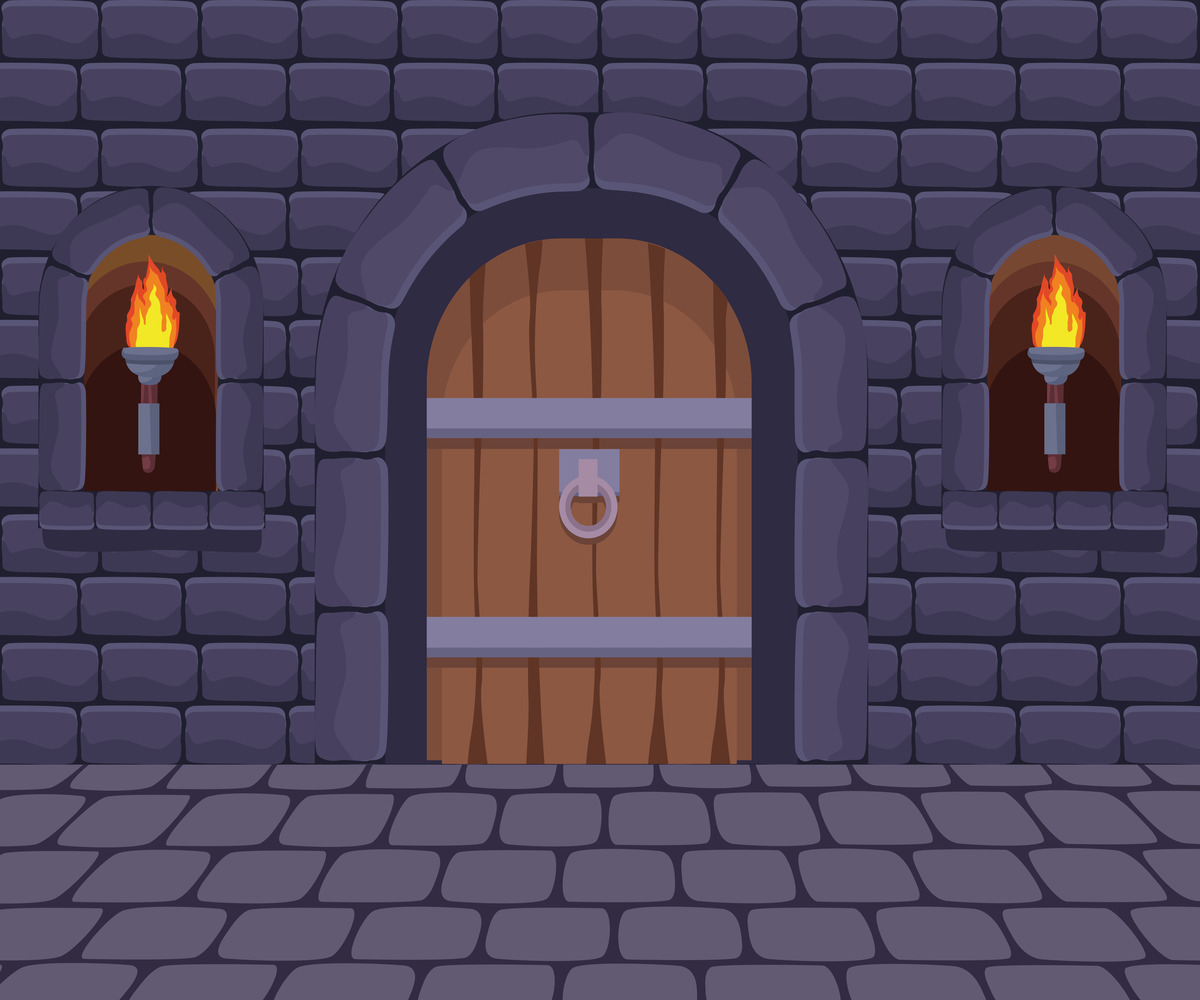
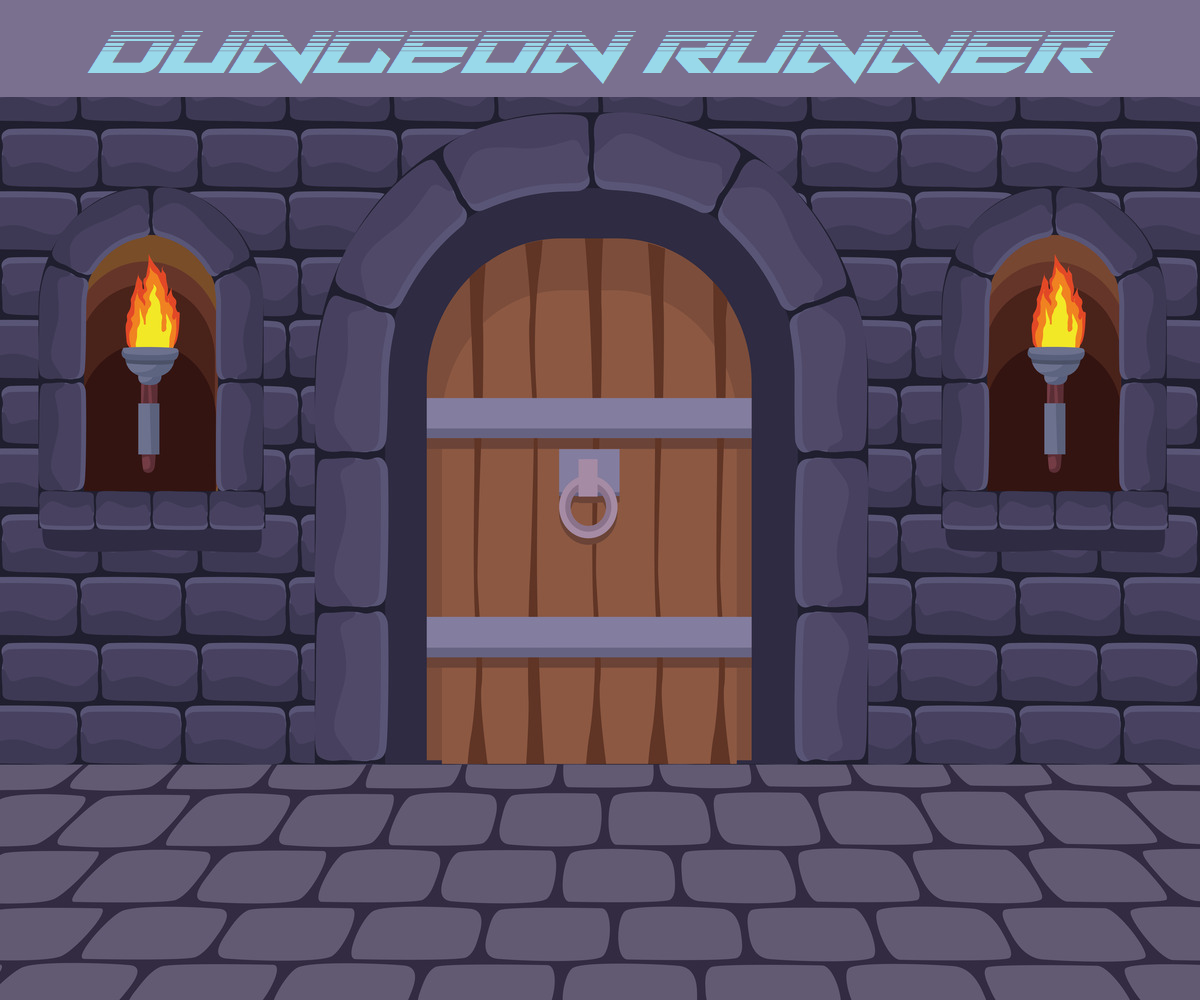
Improved lobbies and different backgrounds

Changed region(s): [[0.0, 0.0, 1.0, 0.124]]

diff --git a/Client.java b/Client.java
@@ -30,8 +30,6 @@ public class Client {
     public final static String MID_ROUND_PANEL = "mid round screen";
     public final static String GAME_OVER_PANEL = "game over screen";
 
-    private String name;
-
     private PrintWriter output;    
     private BufferedReader input;
     private static ServerHandler server;
@@ -81,8 +79,8 @@ public class Client {
 
          //Initialize the screens.
          this.menuScreen = new MenuPanel(Const.MENU_BACKGROUND);
-         this.lobbySelectScreen = new LobbySelectPanel(Const.MENU_BACKGROUND);
-         this.lobbyScreen = new LobbyPanel(Const.MENU_BACKGROUND);
+         this.lobbySelectScreen = new LobbySelectPanel(Const.WALL_BACKGROUND);
+         this.lobbyScreen = new LobbyPanel(Const.WALL_BACKGROUND);
          //this.howToPlayScreen = new HowToPlayScreenPanel(Const.MENU_BACKGROUND);
          //this.lobbyScreen = new LobbyScreenPanel(Const.MENU_BACKGROUND);
          //this.gameScreen = new GameScreenPanel(null);
@@ -92,9 +90,9 @@ public class Client {
          // Add the screens to the window manager.
          cards.add(menuScreen, MENU_PANEL);
          cards.add(lobbySelectScreen, LOBBY_SELECT_PANEL);
+         cards.add(lobbyScreen, LOBBY_PANEL);
          //cards.add(howToPlayScreen, HOW_TO_PLAY_PANEL);
          /*cards.add(createLobbyScreen, CREATE_LOBBY_PANEL);
-         cards.add(lobbyScreen, LOBBY_PANEL);
          cards.add(gameScreen, GAME_PANEL);
          cards.add(gameOverScreen, GAME_OVER_PANEL);
          cards.add(pauseScreen, PAUSE_PANEL);*/
@@ -158,7 +156,16 @@ public class Client {
                         lobbySelectScreen.newLobbyBanner(lobbyName, lobbyCount, Const.LOBBY_BANNER_START_Y + lobbySelectScreen.lobbies().size() * 100);
                     }
                     else if(updateInfo[0].equals(Const.LOBBY_SELECT)){
+                        this.client.lobbySelectScreen.lobbies.clear();
                         Client.ScreenSwapper swapper = new Client.ScreenSwapper(cards, LOBBY_SELECT_PANEL);
+                        swapper.swap();
+                    }
+                    else if(updateInfo[0].equals(Const.NAME)){
+                        Client.ServerWriter writer = new Client.ServerWriter(output);
+                        writer.print(Const.NAME + " " + this.client.lobbySelectScreen.name());
+                    }
+                    else if(updateInfo[0].equals(Const.JOINED)){
+                        Client.ScreenSwapper swapper = new Client.ScreenSwapper(cards, LOBBY_PANEL);
                         swapper.swap();
                     }
                     /* From lobby
@@ -198,6 +205,21 @@ public class Client {
         }
     }
 
+    public static class ServerWriter{
+        private PrintWriter output;
+        /*
+         * Constructs a ServerWriter object with the command to write to the server.
+         * @param output PrintWriter that is connected to the server
+         */
+        public ServerWriter(PrintWriter output) {
+            this.output = output;
+        }
+        public void print(String text){
+            output.println(text);
+            output.flush();
+        }
+    }
+
     public static class ScreenSwapper implements ActionListener {
         private String nextPanel;
         private JPanel cards;
@@ -234,14 +256,14 @@ public class Client {
         public MenuPanel(Image backgroundSprite) {
             super(backgroundSprite);
             Font buttonFont = Const.MENU_BUTTON_FONT;
-            Color fontColor = Color.WHITE;
+            Color fontColor = Const.LARGE_BUTTON_FONT_COLOR;
             // Initialize the buttons.
-            int playY = 260;
+            int playY = 300;
             Text playButtonText = new Text("Play", buttonFont, fontColor, Const.HALF_WIDTH, playY);
             this.playButton = new ServerButton(window, output, playButtonText, Const.LOBBIES_LIST, Const.LARGE_BUTTON_IN_COLOR, Const.LARGE_BUTTON_BORDER_COLOR, 
                                          Const.LARGE_BUTTON_HOVER_COLOR, Const.HALF_WIDTH, playY, Const.RADIUS);
             
-            int howToPlayY = 430;
+            int howToPlayY = 470;
             Text howToPlayButtonText = new Text("How To Play", buttonFont, fontColor, Const.HALF_WIDTH, howToPlayY);
             this.howToPlayButton = new TextButton(window, cards, HOW_TO_PLAY_PANEL, howToPlayButtonText, Const.LARGE_BUTTON_IN_COLOR, Const.LARGE_BUTTON_BORDER_COLOR, 
                                          Const.LARGE_BUTTON_HOVER_COLOR, Const.HALF_WIDTH, howToPlayY, Const.RADIUS);
@@ -275,8 +297,10 @@ public class Client {
     }
 
     public class LobbySelectPanel extends ScreenPanel {
-        private TextButton newlobbyButton;
+        private ServerButton newlobbyButton;
         private TextButton backButton;
+        private TextButton nameField;
+        private String name;
         private ArrayList<LobbyBanner> lobbies;
         //private TextButton creditsButton;
 
@@ -284,13 +308,14 @@ public class Client {
             super(backgroundSprite);
             Font buttonFont = Const.SMALL_BUTTON_FONT;
             Color fontColor = Color.WHITE;
+            this.name = "Player";
             // Initialize the buttons.
             Text newlobbyText = new Text("New Lobby", buttonFont, fontColor, Const.CONTINUE_X, Const.GO_BACK_Y);
-            this.newlobbyButton = new TextButton(window, cards, LOBBY_SELECT_PANEL, newlobbyText, Const.LARGE_BUTTON_IN_COLOR, Const.LARGE_BUTTON_BORDER_COLOR, 
+            this.newlobbyButton = new ServerButton(window, output, newlobbyText, Const.NEW_LOBBY ,Const.LARGE_BUTTON_IN_COLOR, Const.LARGE_BUTTON_BORDER_COLOR, 
                                          Const.LARGE_BUTTON_HOVER_COLOR, Const.CONTINUE_X, Const.GO_BACK_Y, Const.RADIUS);
             
             Text backText = new Text("Go back", buttonFont, fontColor, Const.GO_BACK_X, Const.GO_BACK_Y);
-            this.backButton = new TextButton(window, cards, HOW_TO_PLAY_PANEL, backText, Const.LARGE_BUTTON_IN_COLOR, Const.LARGE_BUTTON_BORDER_COLOR, 
+            this.backButton = new TextButton(window, cards, MENU_PANEL, backText, Const.LARGE_BUTTON_IN_COLOR, Const.LARGE_BUTTON_BORDER_COLOR, 
                                          Const.LARGE_BUTTON_HOVER_COLOR, Const.GO_BACK_X, Const.GO_BACK_Y, Const.RADIUS);
             
             lobbies = new ArrayList<LobbyBanner>();
@@ -315,6 +340,9 @@ public class Client {
         public ArrayList<LobbyBanner> lobbies() {
             return this.lobbies;
         }
+        public String name(){
+            return this.name;
+        }
         public void newLobbyBanner(String name, String playerCount, int y) {
             LobbyBanner lobbyBanner = new LobbyBanner(name, playerCount, y);
             lobbies.add(lobbyBanner);
@@ -328,12 +356,15 @@ public class Client {
             private Text name;
             private Text playerCount;
             private ServerButton joinButton;
+            private int vertPos;
             LobbyBanner(String name, String playerCount, int y){
                 this.name = new Text(name, Const.SMALL_BUTTON_FONT, Const.SMALL_BUTTON_IN_COLOR, Const.LOBBY_NAME_X, y);
                 this.playerCount = new Text(playerCount, Const.SMALL_BUTTON_FONT, Const.SMALL_BUTTON_IN_COLOR, Const.LOBBY_COUNT_X, y);
+                this.vertPos = y;
             }
 
             public void draw(Graphics graphics){
+                graphics.drawRoundRect(Const.LOBBY_BANNER_X, vertPos, Const.LOBBY_BANNER_WIDTH, Const.LOBBY_BANNER_HEIGHT, Const.RADIUS, Const.RADIUS);
                 name.draw(graphics);
                 playerCount.draw(graphics);
             }
@@ -351,7 +382,7 @@ public class Client {
             Color fontColor = Color.WHITE;
             // Initialize the buttons.
             int playY = 260;
-            Text playButtonText = new Text("Play", buttonFont, fontColor, Const.HALF_WIDTH, playY);
+            Text playButtonText = new Text("beee", buttonFont, fontColor, Const.HALF_WIDTH, playY);
             this.playButton = new TextButton(window, cards, LOBBY_SELECT_PANEL, playButtonText, Const.LARGE_BUTTON_IN_COLOR, Const.LARGE_BUTTON_BORDER_COLOR, 
                                          Const.LARGE_BUTTON_HOVER_COLOR, Const.HALF_WIDTH, playY, Const.RADIUS);
             

diff --git a/Const.java b/Const.java
@@ -32,13 +32,17 @@ public class Const{
     public static final int GO_BACK_X = 100;
     public static final int CONTINUE_X = 1100;
     public static final int GO_BACK_Y = 900;
+    public static final int LOBBY_BANNER_WIDTH = 300;
+    public static final int LOBBY_BANNER_HEIGHT = 150;
+    public static final int LOBBY_BANNER_X = HALF_WIDTH - LOBBY_BANNER_WIDTH/2;
     
     public static final Font MENU_BUTTON_FONT = loadFont(RAUBFONT_FONT_FILE, Font.TRUETYPE_FONT, Font.PLAIN, 95);
     public static final Font SMALL_BUTTON_FONT = loadFont(RAUBFONT_FONT_FILE, Font.TRUETYPE_FONT, Font.PLAIN, 20);
+    public static final Color LARGE_BUTTON_FONT_COLOR = new Color(153, 217, 234);
 
-    public static final Color LARGE_BUTTON_IN_COLOR = new Color(71, 56, 117);
-    public static final Color LARGE_BUTTON_BORDER_COLOR = new Color(142, 124, 195);
-    public static final Color LARGE_BUTTON_HOVER_COLOR = new Color(32, 18, 77);
+    public static final Color LARGE_BUTTON_IN_COLOR = new Color(122, 112, 143);
+    public static final Color LARGE_BUTTON_BORDER_COLOR = new Color(92, 114, 163);
+    public static final Color LARGE_BUTTON_HOVER_COLOR = new Color(113, 105, 150);
     public static final Color SMALL_BUTTON_IN_COLOR = new Color(153, 153, 153); // Grey
     public static final Color SMALL_BUTTON_HOVER_COLOR = new Color(102, 102, 102); // Dark Grey
 
@@ -49,6 +53,7 @@ public class Const{
     // Client to Server commands
     public static final String LOBBIES_LIST = "LOBBIES";
     public static final String NEW_LOBBY = "NEW";
+    public static final String NAME = "NAME"; 
     public static final String JOIN_LOBBY = "JOIN";
 
     // Client to Lobby commands
@@ -89,6 +94,8 @@ public class Const{
 
     // Images
     public static final Image MENU_BACKGROUND = loadImage("extra_files/images/MenuBackground.png");
+    public static final Image WALL_BACKGROUND = loadImage("extra_files/images/WallBackground.png");
+    public static final Image GAME_BACKGROUND = loadImage("extra_files/images/GameBackground.png");
 
     private static Image loadImage(String imageName){
         Image image = new Image(imageName);

diff --git a/ServerButton.java b/ServerButton.java
@@ -29,13 +29,8 @@ public class ServerButton extends TextButton {
         public void mouseClicked(MouseEvent event) {
             // If mouse clicks button switch to correct screen
             if (mouseInside) {
-                if (!(cards == null && panel == null)){
-                    output.println(command);
-                    System.out.println("heh");
-                }
-                else if (cards == null && panel == null){
-                    stayHeld = !stayHeld;
-                 }
+                Client.ServerWriter writer = new Client.ServerWriter(output);
+                writer.print(command);
             }
         }
         public void mousePressed(MouseEvent e) {  
